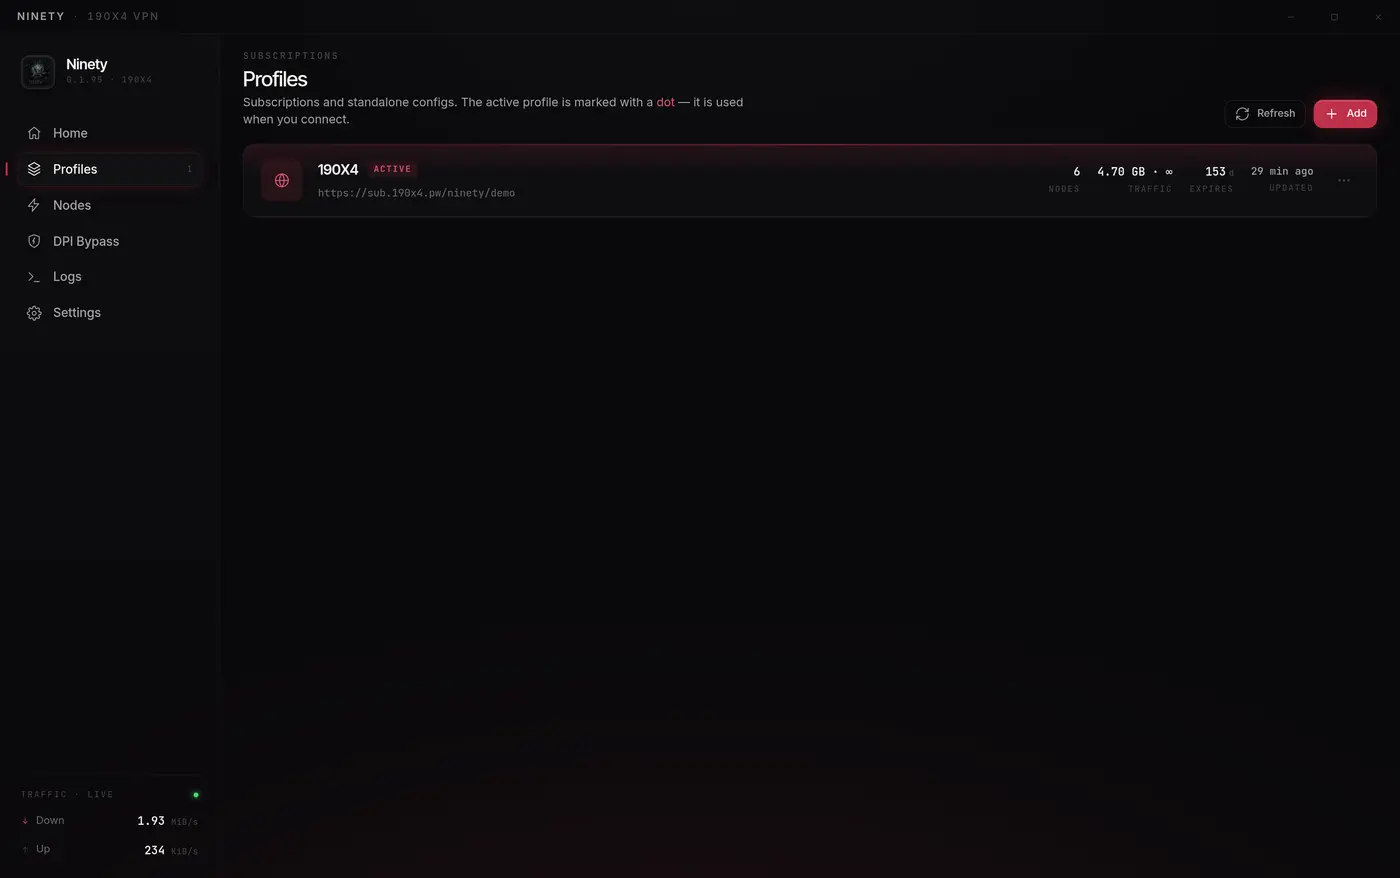
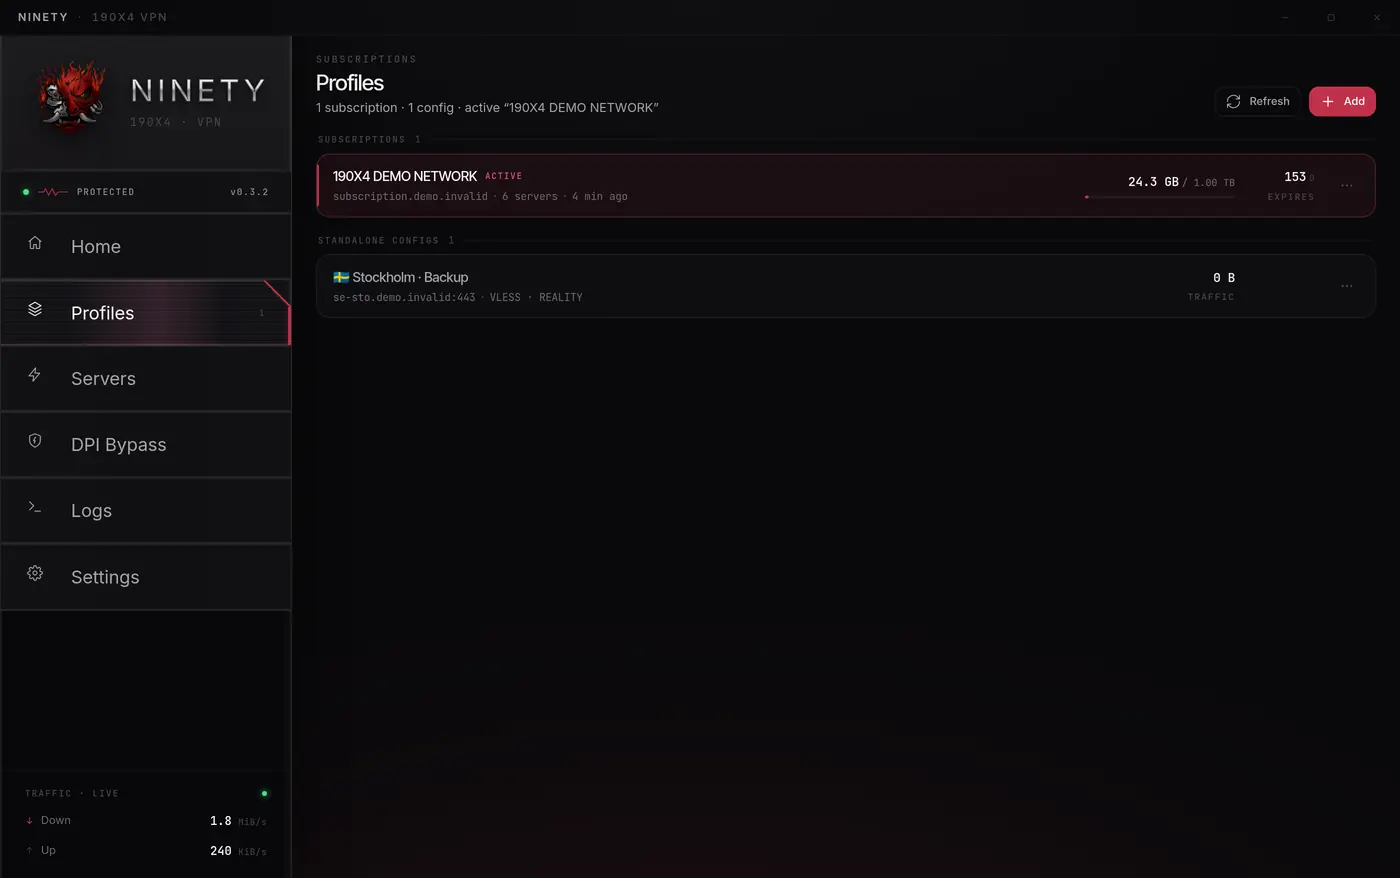
docs: recapture screenshots for the redesigned UI
README and site screenshots now show the current interface in a connected
state, in English, on a 1280x800 client area. Data stays on the demo network:
*.demo.invalid hosts only, no real endpoints in the sample log.

The screen renamed to Servers is labelled that way in both READMEs and on the
site; asset file names are unchanged.

Telemetry strip: session totals no longer get cut off at the default 1100x720
window. Column shares are recomputed from real content, with the server cell
giving up the space it does not need.

diff --git a/src/styles/app.css b/src/styles/app.css
@@ -961,9 +961,13 @@
    ТЕЛЕМЕТРИЯ-ПОЛОСА (secured) — session-уровень: Сервер · Пинг · Канал · Сессия · Режим.
    Мгновенная скорость тут НЕ дублируется — она живёт в сайдбар-мониторе.
 ═══════════════════════════════════════════ */
+/* Доли колонок посчитаны от реального содержимого на дефолтном окне 1100×720:
+   у «Сессии» два значения в одну строку (аптайм + тоталы) и она самая широкая,
+   у «Сервера» имя ноды и так режется эллипсисом — он и отдаёт место. При старых
+   долях тоталы сессии не помещались и обрывались многоточием прямо на дефолте. */
 .stats {
   display: grid;
-  grid-template-columns: 1.3fr 0.66fr 0.92fr 1.4fr 1.05fr;
+  grid-template-columns: 1.13fr 0.7fr 0.83fr 1.56fr 1.08fr;
   gap: 0;
   padding: 14px 18px;
   border-radius: var(--r-md);

diff --git a/site/app.js b/site/app.js
@@ -36,7 +36,7 @@ const translations = {
     "screens.kicker": "Интерфейс",
     "screens.title": "Реальное состояние подключения видно сразу",
     "screens.home": "Главная",
-    "screens.nodes": "Ноды",
+    "screens.nodes": "Серверы",
     "screens.profiles": "Профили",
     "screens.settings": "Настройки",
     "screens.quality": "Качество",
@@ -109,7 +109,7 @@ const translations = {
     "screens.kicker": "Interface",
     "screens.title": "The real connection state is visible at a glance",
     "screens.home": "Home",
-    "screens.nodes": "Nodes",
+    "screens.nodes": "Servers",
     "screens.profiles": "Profiles",
     "screens.settings": "Settings",
     "screens.quality": "Quality",
@@ -168,8 +168,8 @@ const screens = {
   nodes: {
     src: "assets/screen-nodes.webp",
     alt: {
-      ru: "Экран нод Ninety",
-      en: "Ninety nodes screen",
+      ru: "Экран серверов Ninety",
+      en: "Ninety servers screen",
     },
   },
   profiles: {

diff --git a/site/index.html b/site/index.html
@@ -150,7 +150,7 @@
           <div class="screen-shell">
             <div class="screen-tabs" role="tablist" aria-label="Screenshots">
               <button class="screen-tab is-active" type="button" data-screen="home" data-i18n="screens.home">Главная</button>
-              <button class="screen-tab" type="button" data-screen="nodes" data-i18n="screens.nodes">Ноды</button>
+              <button class="screen-tab" type="button" data-screen="nodes" data-i18n="screens.nodes">Серверы</button>
               <button class="screen-tab" type="button" data-screen="profiles" data-i18n="screens.profiles">Профили</button>
               <button class="screen-tab" type="button" data-screen="settings" data-i18n="screens.settings">Настройки</button>
               <button class="screen-tab" type="button" data-screen="quality" data-i18n="screens.quality">Качество</button>

diff --git a/README.ru.md b/README.ru.md
@@ -46,9 +46,9 @@ Ninety — нативный клиент для Windows, построенный 
 
 ## Скриншоты
 
-| Ноды | Профили |
+| Серверы | Профили |
 |------|---------|
-| ![Ноды](./docs/nodes.png) | ![Профили](./docs/profiles.png) |
+| ![Серверы](./docs/nodes.png) | ![Профили](./docs/profiles.png) |
 | **DPI-инструменты** | **Настройки** |
 | ![DPI-инструменты](./docs/dpi.png) | ![Настройки](./docs/settings.png) |
 | **Логи** | **Качество соединения** |

diff --git a/README.md b/README.md
@@ -46,9 +46,9 @@ When something breaks, you get diagnostics instead of guesswork.
 
 ## Screenshots
 
-| Nodes | Profiles |
+| Servers | Profiles |
 |------|---------|
-| ![Nodes](./docs/nodes.png) | ![Profiles](./docs/profiles.png) |
+| ![Servers](./docs/nodes.png) | ![Profiles](./docs/profiles.png) |
 | **DPI tools** | **Settings** |
 | ![DPI tools](./docs/dpi.png) | ![Settings](./docs/settings.png) |
 | **Logs** | **Channel quality** |
